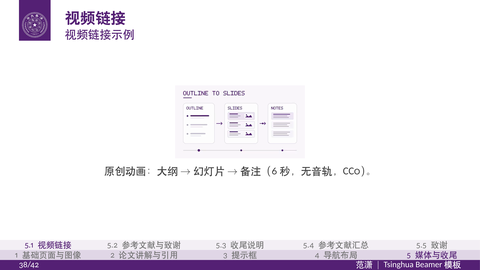
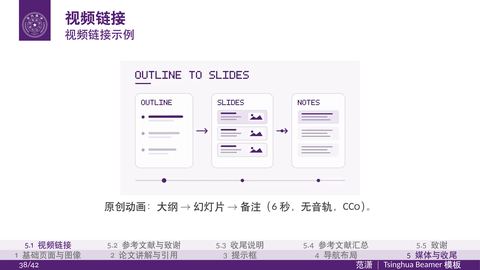
fix: enlarge demo video preview area

diff --git a/chapters/05_media.tex b/chapters/05_media.tex
@@ -5,8 +5,9 @@
 
 \begin{frame}{视频链接示例}
       \centering
+      % Match the demo video's 16:9 ratio so its first frame fills the area.
       \href{run:../assets/presentation_demo.mp4}{% 原创 CC0 动画；路径相对于 build/ 中的 PDF
-            \XeTeXLinkBox{\parbox[c][.30\textheight][c]{0.65\textwidth}{\mbox{}}}%
+            \XeTeXLinkBox{\parbox[c][.60\textheight][c]{\dimexpr .60\textheight*16/9\relax}{\mbox{}}}%
       }
       \par\medskip
       {\small 原创动画：大纲 \(\rightarrow\) 幻灯片 \(\rightarrow\) 备注（6 秒，无音轨，CC0）。}
